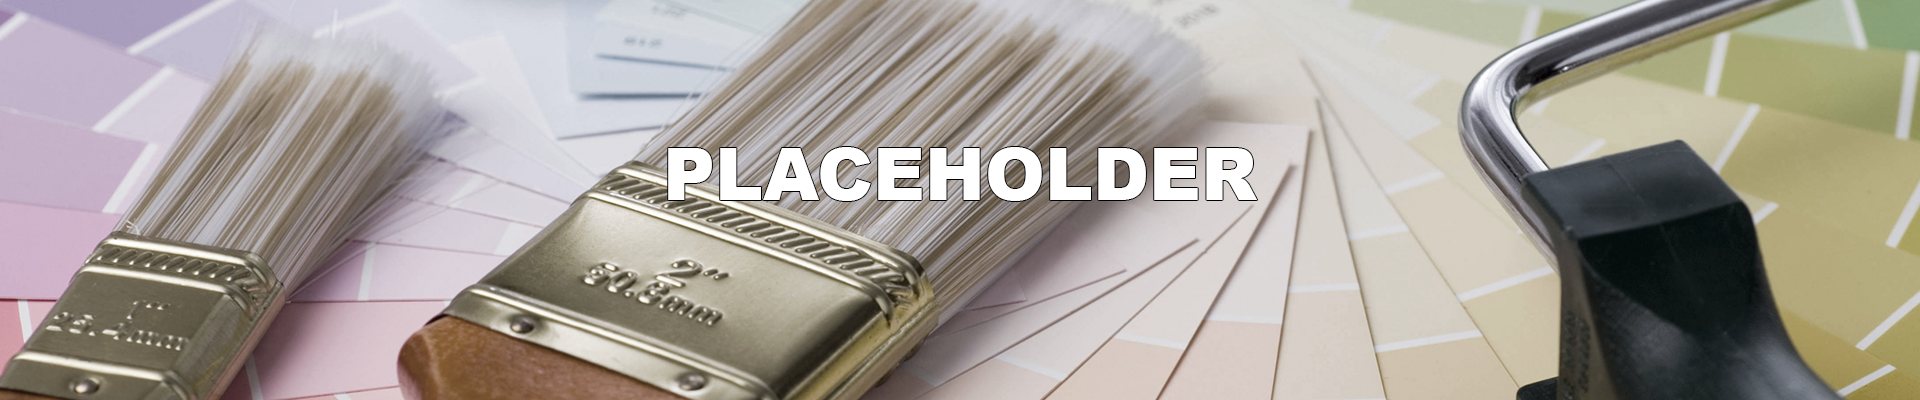
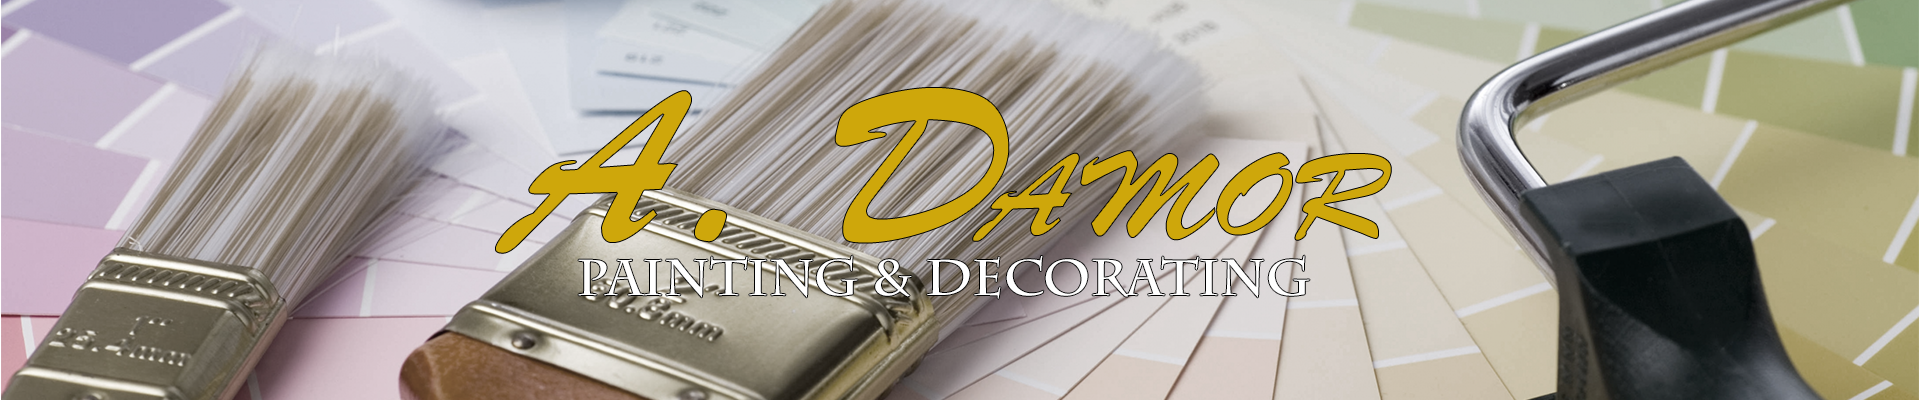
Cover Photo changed and more small fixes

diff --git a/web/css/style.css b/web/css/style.css
@@ -56,6 +56,7 @@ body {
 
 .content p {
     padding-right: 20px;
+    padding-left: 20px;
 }
 h1.bodyheader {
     /* margin-left: 50px; */
